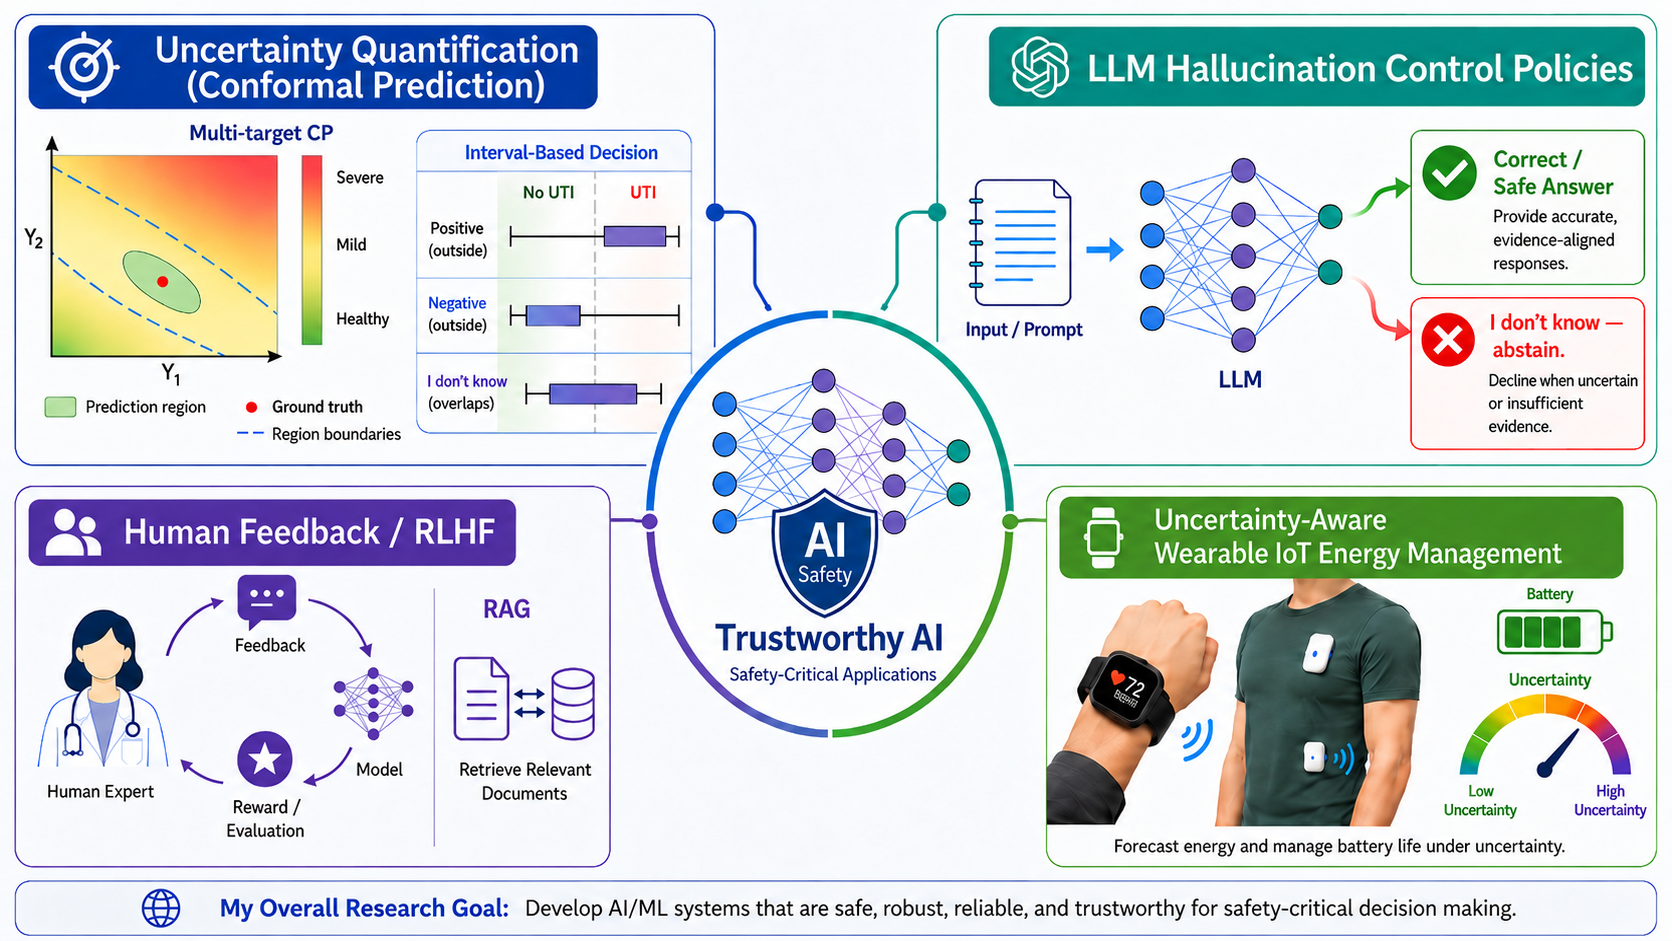
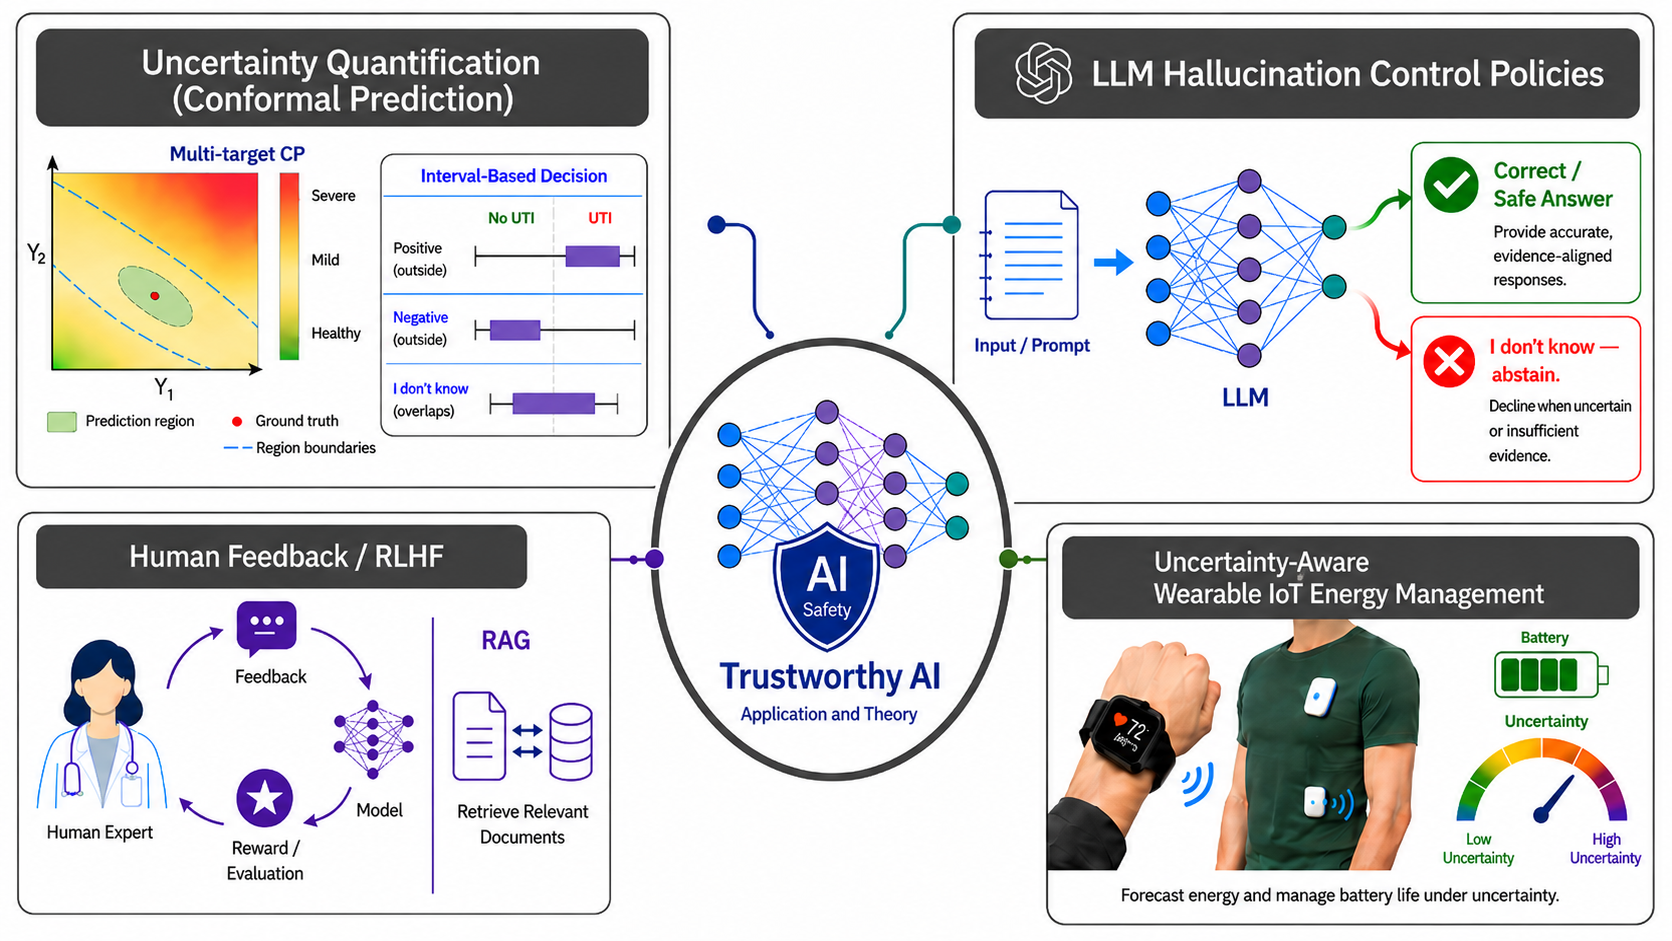
update

diff --git a/assets/css/styles.css b/assets/css/styles.css
@@ -466,7 +466,7 @@ html[data-theme="light"] .header .profile-content .name {
 
 #projects .projects-hero-image {
   display: block;
-  width: 82.5%;
+  width: 85%;
   height: auto;
   margin: 0 auto;
   border-radius: 8px;